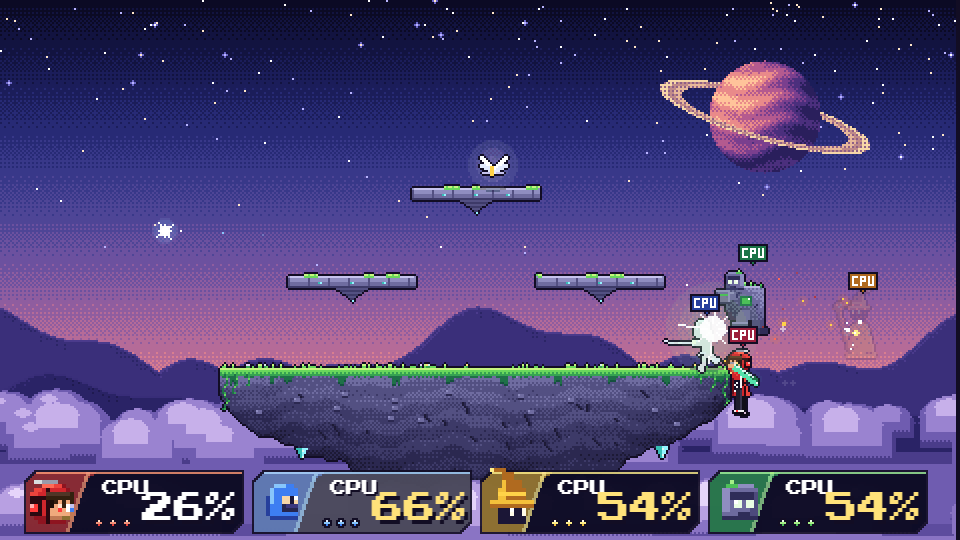
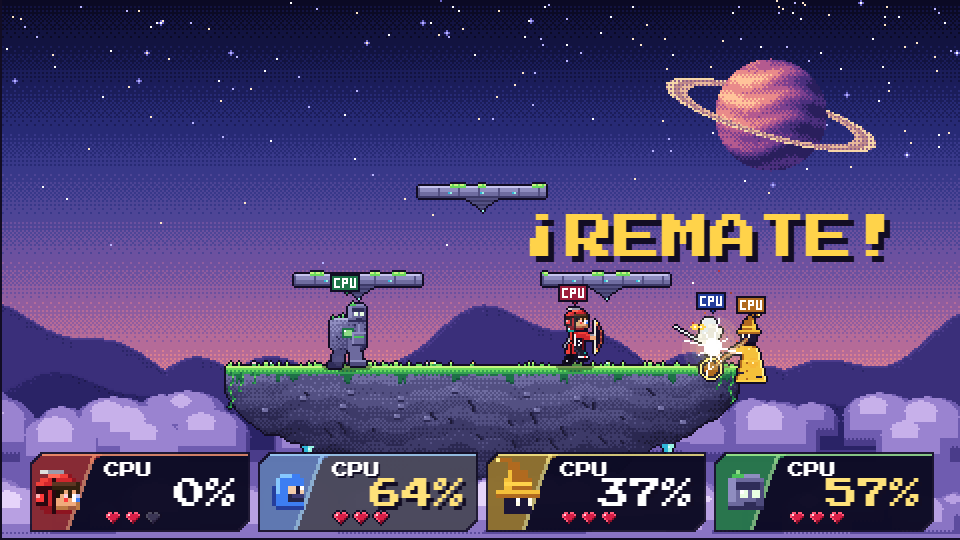
Texto de combo y remate sin salirse de la pantalla; capturas del README con el marcador nuevo

diff --git a/js/game.js b/js/game.js
@@ -379,14 +379,16 @@ class Game {
     // contador de combo sobre el rival y ¡REMATE!
     for (const f of this.fighters) {
       if (!f.alive() || f.st === 'respawn' || !f.comboBy) continue;
-      const x = clamp(f.x, 30, W - 30), y = clamp(f.y - f.S.hh - 26, 26, H - 60);
+      const y = clamp(f.y - f.S.hh - 26, 26, H - 60);
+      const cx = (str, size) => { const half = str.length * size / 2 + 4; return clamp(f.x, half, W - half); };   // que el texto no se salga de la pantalla
       if (f.remateT > 0) {
         const pop = f.remateT > 62 ? 24 : 16;
-        t.text('¡REMATE!', x, y - (pop > 16 ? 30 : 22), pop, '#ffd34a', 'center');
+        t.text('¡REMATE!', cx('¡REMATE!', pop), y - (pop > 16 ? 30 : 22), pop, '#ffd34a', 'center');
       }
       if (f.comboN >= 2 && f.comboT > 0 && ((f.comboT > 20) || (f.comboT >> 2) % 2)) {
         const big = f.comboN >= 5, col = f.comboBy.pal ? f.comboBy.pal.light : '#ffffff';
-        t.text(f.comboN + (big ? ' GOLPES!' : ' GOLPES'), x, y, big ? 16 : 8, col, 'center');
+        const str = f.comboN + (big ? ' GOLPES!' : ' GOLPES');
+        t.text(str, cx(str, big ? 16 : 8), y, big ? 16 : 8, col, 'center');
       }
     }
     if (this.phase === 'count') {

diff --git a/README.md b/README.md
@@ -27,7 +27,7 @@ Saca a tus rivales del escenario. Cuanto más daño (%) llevan, más lejos salen
   <img src="docs/img/isla-celeste.png" alt="Pelea a cuatro en la Isla Celeste" width="49%">
 </p>
 
-- **Combos de verdad.** Cadena de golpes 1-2-3, ataques que se encadenan subiendo de nivel y un **¡REMATE!** cuando cierras un combo largo con un golpe fuerte.
+- **Combos de verdad.** Cadena de golpes 1-2-3, ataques que se encadenan subiendo de nivel y un **¡REMATE!** cuando cierras un combo con un ataque fuerte o un especial.
 - **14 objetos** que caen en plena pelea: armas que cambian tu ataque (espada láser, bláster, bumerán…), cosas para lanzar y poderes temporales.
 - **Pantalla VS** con pullas antes de cada combate y música rock propia para cada arena.
 - **Modo en línea** con código de sala: uno crea la sala, los demás escriben el código y a pelear.
